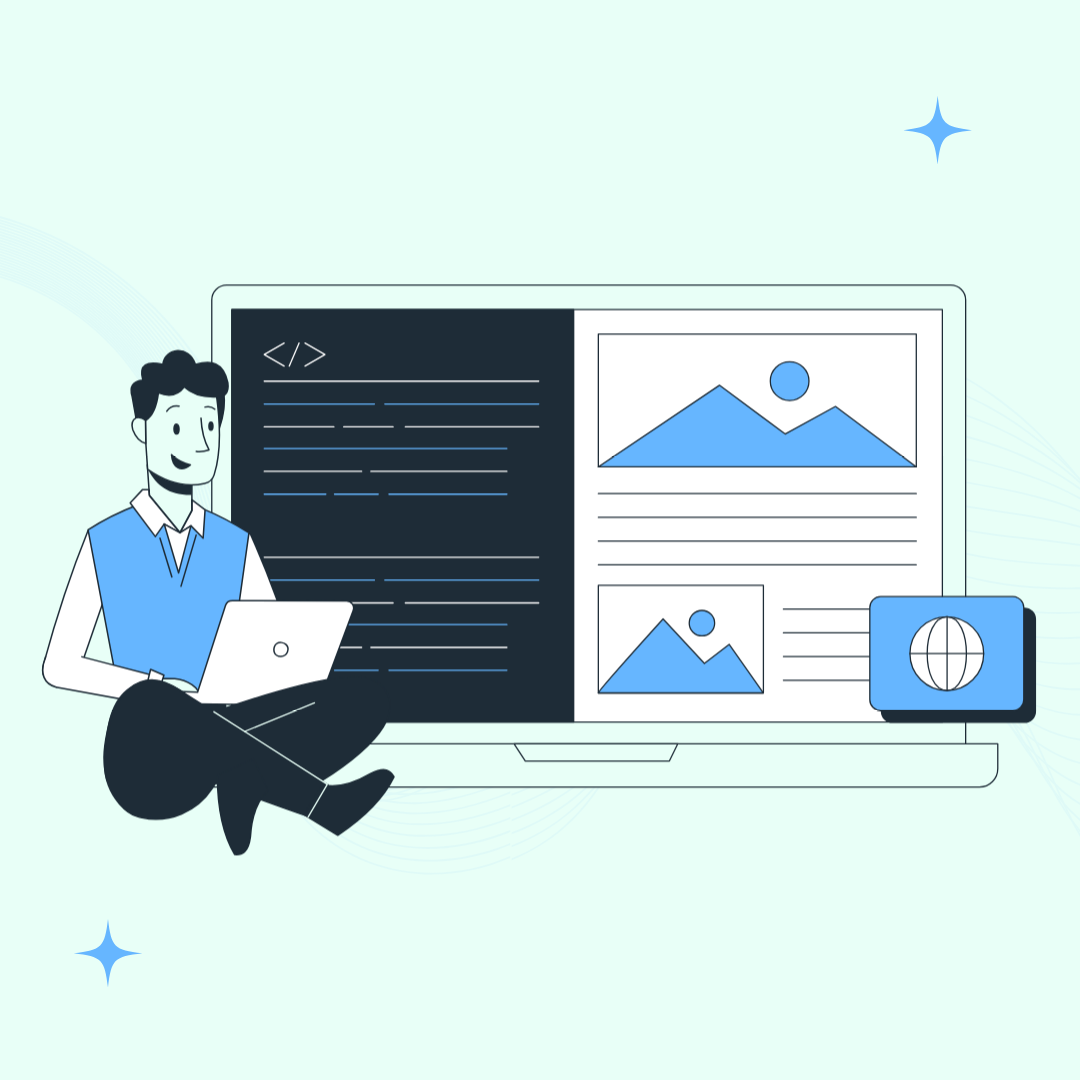
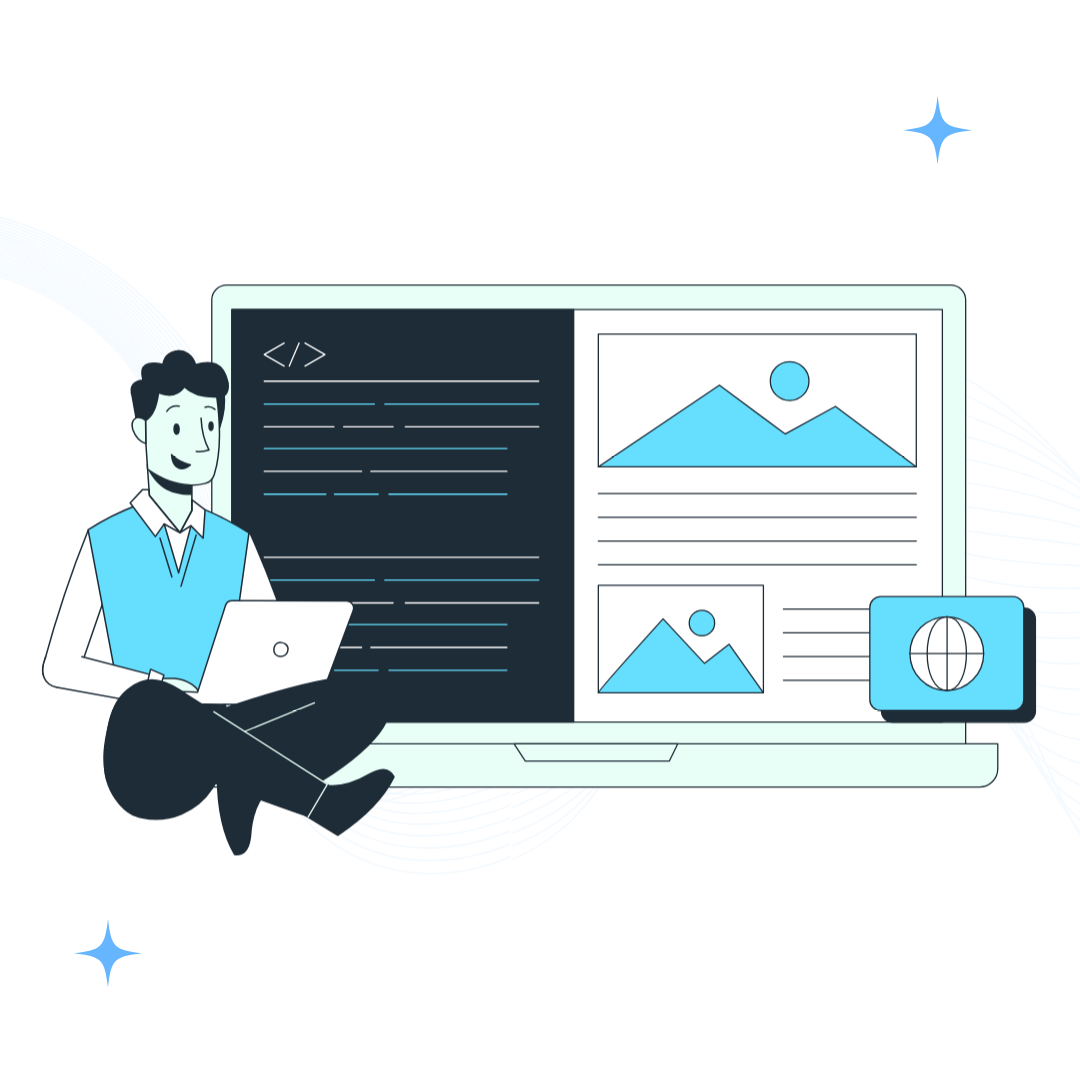
image update in flex section

diff --git a/src/Components/NavBar.jsx b/src/Components/NavBar.jsx
@@ -22,10 +22,10 @@ const NavBar = () => {
       <div className="max-w-7xl mx-auto px-2 p-1 sm:p-0 sm:px-6 lg:px-8">
        
         <div className="relative flex items-center justify-between py-2 sm:py-0 sm:min-h-[60px] ">
-          <div className="flex-1 flex flex-col px-5 md:px-1 sm:flex-row md:items-center relative justify-between sm:items-stretch ">
+          <div className="flex-1 flex flex-col px-3 md:px-1 sm:flex-row md:items-center relative justify-between sm:items-stretch ">
             
             {/* icon */}
-            <div  className="sm:hidden flex-shrink-0 absolute top-1 right-5 ">
+            <div  className="sm:hidden flex-shrink-0 absolute top-1 right-2 ">
             
            <button onClick={handleNav}  onBlur={closeMenuOnBlur} className='relative'>
            <svg
@@ -55,7 +55,7 @@ const NavBar = () => {
 
             <div className="flex-shrink-0">
               <Link href="/">
-                <span className="l text-[23px] font-serif">SiteOcean</span>
+                <span className="text-[23px] font-serif">SiteOcean</span>
               </Link>
             </div>
 

diff --git a/src/Components/HomePageComp/bannerByRaji.jsx b/src/Components/HomePageComp/bannerByRaji.jsx
@@ -15,7 +15,7 @@ export default function BannerByRaji (){
           speed={110}
           eraseSpeed={30}
           typingDelay={300}
-          className="text-lg font-bold md:text-3xl bg-clip-text text-transparent bg-gradient-to-r from-indigo-50 via-pink-400 to-violet-50 z-50"
+          className="text-lg font-bold md:text-3xl bg-clip-text text-transparent bg-gradient-to-r from-indigo-50 via-pink-300 to-violet-50 z-50"
         />
         </h2>
               <p className='text-white'>Siteocean Pvt Ltd is an innovative IT startup committed to pushing the boundaries of technology. We are developing a cutting-edge hyper-local search engine app designed to bring businesses closer to their customers with real-time, location-based offerings. In addition to our product development, we are dedicated to nurturing the next generation of IT professionals by providing comprehensive training programs. Our courses in MERN stack, Java full stack, Python full stack, digital marketing, C, and C++ are tailored to help freshers and students successfully launch their careers in the ever-evolving IT industry.</p>

diff --git a/src/pages/Layouts/HomePage.jsx b/src/pages/Layouts/HomePage.jsx
@@ -50,7 +50,7 @@ const HomePage=()=>{
       </div>
       <FaWhatsappSquare
       onClick={handleWhatsAppRedirect}
-       className={'fixed top-[46%] animate-bounce right-2 sm:right-6 text-[#34db80] bg-white text-[50px] rounded-md cursor-pointer'}/>
+       className={'fixed bottom-4 md:top-[46%] animate-bounce right-3 md:right-2 sm:right-6 text-[#34db80] bg-white text-[50px] rounded-md cursor-pointer'}/>
     <Footer/>
     </div>)
 }
